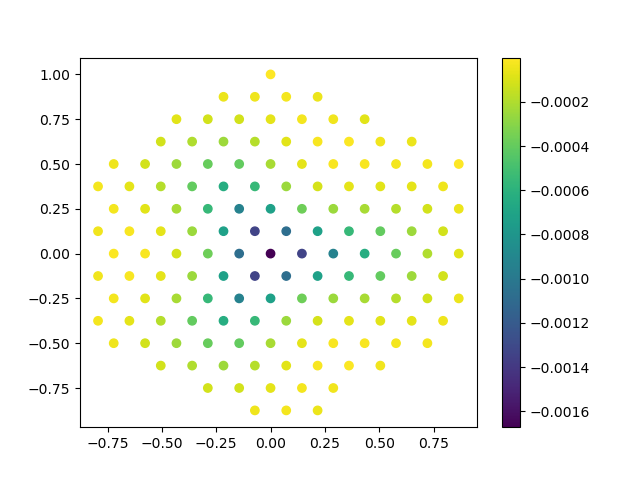
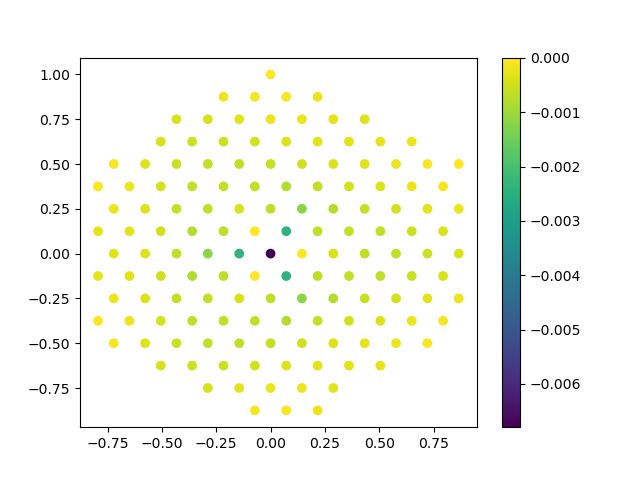
gauge fixing for plus valley done

diff --git a/Mods/Dispersion.py b/Mods/Dispersion.py
@@ -21,7 +21,7 @@ class Ham_BM():
         self.latt=latt
         self.kappa=kappa
         self.PH=PH #particle hole symmetry
-        self.gap=0*1e-8#artificial gap
+        self.gap=0.0  #artificial gap
         
         #precomputed momentum lattice and interlayer coupling
        
@@ -208,9 +208,18 @@ class Ham_BM():
         z = np.exp(-1j*phi*tau)
         zs = np.exp(1j*phi*tau)
         
-        T1 = np.array([[w0,w1],[w1,w0]])
-        T2 = zs*np.array([[w0,w1*zs],[w1*z,w0]])
-        T3 = z*np.array([[w0,w1*z],[w1*zs,w0]])
+        pauli0=np.array([[1,0],[0,1]])
+        paulix=np.array([[0,1],[1,0]])
+        pauliy=np.array([[0,-1j],[1j,0]])
+        pauliz=np.array([[1,0],[0,-1]])
+        
+        # T1 = np.array([[w0,w1],[w1,w0]])
+        # T2 = zs*np.array([[w0,w1*zs],[w1*z,w0]])
+        # T3 = z*np.array([[w0,w1*z],[w1*zs,w0]])
+        
+        T1=pauli0+paulix
+        T2=pauli0+paulix*np.cos(phi)-self.xi*pauliy*np.sin(phi)
+        T3=pauli0+paulix*np.cos(phi)+self.xi*pauliy*np.sin(phi)
 
 
         U=self.hvkd*self.alpha*( np.kron(Mdelt1,T1) + np.kron(Mdelt2,T2)+ np.kron(Mdelt3,T3)) #interlayer coupling
@@ -404,7 +413,23 @@ class Ham_BM():
         mat=np.kron(np.kron(pau[layer],Qmat), pau[sublattice])
 
         return  mat@psi
+    
+    def Cs_psi(self, psi):
         
+        pauli0=np.array([[1,0],[0,1]])
+        paulix=np.array([[0,1],[1,0]])
+        pauliy=np.array([[0,-1j],[1j,0]])
+        pauliz=np.array([[1,0],[0,-1]])
+        
+        pau=[pauli0,paulix,pauliy,pauliz]
+        Qmat=np.eye(self.Dim)
+        
+        layer=0
+        sublattice=3
+        # mat=np.kron(pau[layer],np.kron(Qmat, pau[sublattice]))
+        mat=np.kron(np.kron(pau[layer],Qmat), pau[sublattice])
+
+        return  mat@psi
 
     def c3z_psi(self, psi):
         rot=self.latt.C3z
@@ -491,133 +516,19 @@ class Dispersion():
         s=time.time()
 
         # for l in range(18,19):
+   
         for l in range(self.Npoi1bz):
+            
             E1,wave1=self.hpl.eigens(self.KX1bz[l],self.KY1bz[l],self.nbands)
             Ene_valley_plus_a=np.append(Ene_valley_plus_a,E1)
-            psi_plus_a.append(wave1)
+            wave1p=self.gauge_fix( wave1)
+            psi_plus_a.append(wave1p)
             
-     
-            """
-            wave1[:,0]=wave1[:,0]#*np.exp(1j*a2/2)
-            wave1[:,1]=1j*wave1[:,1]#*np.exp(1j*a2/2)
-            
-            print("POSITION", self.KX1bz[l],self.KY1bz[l])
-            plt.scatter(self.KX1bz,self.KY1bz)
-            # plt.plot(self.KX1bz,self.KY1bz)
-            plt.scatter(self.KX1bz[l],self.KY1bz[l])
-            plt.savefig("pos.png")
-            plt.close()
-            
-            
-            II=np.eye(self.Dim)
-            pauli0=np.array([[1,0],[0,1]])
-            paulix=np.array([[0,1],[1,0]])
-            pauliy=np.array([[0,-1j],[1j,0]])
-            pauliz=np.array([[1,0],[0,-1]])
-            op=np.kron(pauli0,np.kron(II,paulix))
-            
-            testw=np.array(wave1[:,0])
-            firstp=np.angle(testw)
-            firstmag=np.abs(testw)
-            secondp=np.angle(op@testw)
-            secondmag=np.abs(op@testw)
-            plt.plot(firstmag-secondmag)
-            plt.savefig("cosa1.png")
-            plt.close()
-            print("ASDFASDFA", np.shape( -secondp+firstp))
- 
-            
-            
-            phasedif=np.fmod(secondp+firstp, 2*np.pi)
-          
-            plt.plot(phasedif)
-            plt.savefig("cosa2.png")
-            plt.close()
-            
-            ### testing jong yeon's way
-            testw=np.array(wave1[:,0])
-            testw2=np.conj(np.array(op@testw))
-            ang_low=np.angle(np.conj(testw.T)@testw2)
-            print("ASDFA",ang_low,np.conj(testw.T)@testw2)
-            testw_new=testw*np.exp(1j*ang_low/2)
-            testw2=np.conj(np.array(op@testw_new))
-            print(np.conj(testw_new.T)@testw2)
-            
-            ### testing eigenval eq
-            testw=np.array(wave1[:,0])
-            testw2=np.abs(np.conj(np.array(op@testw))-testw)
-            plt.plot(testw2)
-            plt.savefig("cos3.png")
-            plt.close()
-            
-            
-            
-            II=np.eye(self.Dim)
-            pauli0=np.array([[1,0],[0,1]])
-            paulix=np.array([[0,1],[1,0]])
-            pauliy=np.array([[0,-1j],[1j,0]])
-            pauliz=np.array([[1,0],[0,-1]])
-            op=np.kron(pauli0,np.kron(II,paulix))
-            plt.imshow(op)
-            plt.savefig("cos4.png")
-            plt.close()
-            
-            op=np.kron(np.kron(II,pauli0),paulix)
-            plt.imshow(op)
-            plt.savefig("cos5.png")
-            plt.close()
-
-            
-            testw=np.array(wave1[:,0])
-            testw2=(np.conj(np.array(op@testw)))
-            plt.plot(np.real(testw))
-            plt.plot(np.real(testw2))
-            plt.savefig("cos4.png")
-            plt.close()
-            plt.plot(np.imag(testw))
-            plt.plot(np.imag(testw2))
-            plt.savefig("cos5.png")
-            plt.close()
-            
-            plt.plot(np.abs(testw))
-            plt.plot(np.abs(testw2))
-            plt.savefig("cos6.png")
-            plt.close()
-            
-            break
-            
-            
-            wave1p=wave1.getH()
-            c2Twave=self.hpl.c2zT_psi(wave1)
-            norm=np.abs( wave1p@wave1 )
-            print(l,norm )
-            a1=np.abs( wave1p@c2Twave )
-            print(l, a1 )
-            print(np.linalg.eigh(a1)[1])
-            mm=(np.linalg.eigh(a1)[1]).getH()
-            wave1p=np.array(wave1)
-            wave1p[:,0]=np.array(wave1@mm)[:,0].flatten()#*np.exp(1j*a2/2)
-            wave1p[:,1]=1j*np.array(wave1@mm)[:,1].flatten()#*np.exp(1j*a2/2)
-            a2=np.abs( (np.conj(wave1.T)@(np.conj(wave1p))) )
-            print(l,  a2)
-            # print(l,   wave1p/wave1)
-            # print(l, np.sum( np.array(np.conj(wave1))*np.array(self.hpl.c2zT_psi(wave1)) ,0) )
-            # a=np.angle(np.sum( np.array(np.conj(wave1))*np.array(self.hpl.c2zT_psi(wave1)) ,0))
-            # print(a)
-            # a2=np.matlib.repmat(a, 4*self.hpl.Dim, 2)
-            
-            
-            print("\n \n")
-            """
-            
-            
-            
-            E1,wave1=self.hmin.eigens(-self.KX1bz[l],-self.KY1bz[l],self.nbands)
-            Ene_valley_min_a=np.append(Ene_valley_min_a,E1)
-            psi_min_a.append(wave1)
-
-            # printProgressBar(l + 1, self.Npoi_Q, prefix = 'Progress Diag2:', suffix = 'Complete', length = 50)
-
+        #TODO: construct minus wavefunctions from plus wavef 
+        #test gaugefixing for this procedure
+        #test symmetry for the form factors
+        #start implementing the projector- understand the role of non-normal ordered
+    
         e=time.time()
         print("time to diag over MBZ", e-s)
         ##relevant wavefunctions and energies for the + valley
@@ -649,6 +560,7 @@ class Dispersion():
             E1,wave1=self.hpl.eigens(KX[l],KY[l],self.nbands)
             Ene_valley_plus_a=np.append(Ene_valley_plus_a,E1)
             psi_plus_a.append(wave1)
+            
 
 
             E1,wave1=self.hmin.eigens(KX[l],KY[l],self.nbands)
@@ -710,7 +622,42 @@ class Dispersion():
 
         return [psi_plus,Ene_valley_plus,psi_min,Ene_valley_min]
     
+    ###########Gauge fixing the wavefunctions
+    
+    def gauge_fix(self, wave1):
+        #using c2T symmetry to fix the phases of the wavefuncs
+        ihalf=int(self.nbands/2)
+        
+        testw=np.array(wave1[:,:ihalf])
+        testw2=self.hpl.c2zT_psi(testw)
+        
+        ang_low=np.angle(np.conj(testw.T)@testw2)
+        testw_new=testw*np.exp(1j*ang_low/2)
+        wave1[:,:ihalf]=np.array(testw_new)
+        
+        testw=np.array(wave1[:,ihalf:])
+        testw2=self.hpl.c2zT_psi(testw)
+        
+        ang_low=np.angle(np.conj(testw.T)@testw2)
+        testw_new=1j*testw*np.exp(1j*ang_low/2)  #extra factor of i to make the representation act as n_z
+        wave1[:,ihalf:]=np.array(testw_new)
+        
+        Sewing=np.conj(wave1.T)@self.hpl.c2zT_psi(wave1)
+        pauliz=np.array([[1,0],[0,-1]])
+        if np.abs(np.mean(Sewing-pauliz))>1e-6:
+            print("c2T failed")
+            print(Sewing)
+        
+        #using C sublattice to fix an additional relative minus sign
+        testw=np.array(wave1)
+        testw2=self.hpl.Cs_psi(testw)
+        
+        Sewing2=np.real((np.conj(testw.T)@testw2))
+        
+        return wave1*np.sign(Sewing2[0,1])
+    
     ###########DOS FOR DEBUGGING
+
     
     def DOS(self,Ene_valley_plus_pre,Ene_valley_min_pre):
         [Ene_valley_plus,Ene_valley_min]=[Ene_valley_plus_pre,Ene_valley_min_pre]
@@ -1580,22 +1527,22 @@ def main() -> int:
     
 
     #JY params 
-    hbvf = (3/(2*np.sqrt(3)))*2.7; # eV
-    hvkd=hbvf*q
-    kappa=0.75
-    up = 0.105; # eV
-    u = kappa*up; # eV
-    alpha=up/hvkd
-    alph=alpha
-
-    #Andrei params 
-    # hbvf = 19.81/(8*np.pi/3); # eV
+    # hbvf = (3/(2*np.sqrt(3)))*2.7; # eV
     # hvkd=hbvf*q
-    # kappa=1
-    # up = 0.110; # eV
+    # kappa=0.75
+    # up = 0.105; # eV
     # u = kappa*up; # eV
     # alpha=up/hvkd
     # alph=alpha
+
+    #Andrei params 
+    hbvf = 19.81/(8*np.pi/3); # eV
+    hvkd=hbvf*q
+    kappa=1
+    up = 0.110; # eV
+    u = kappa*up; # eV
+    alpha=up/hvkd
+    alph=alpha
     
     print("hbvf is ..",hbvf )
     print("q is...", q)
